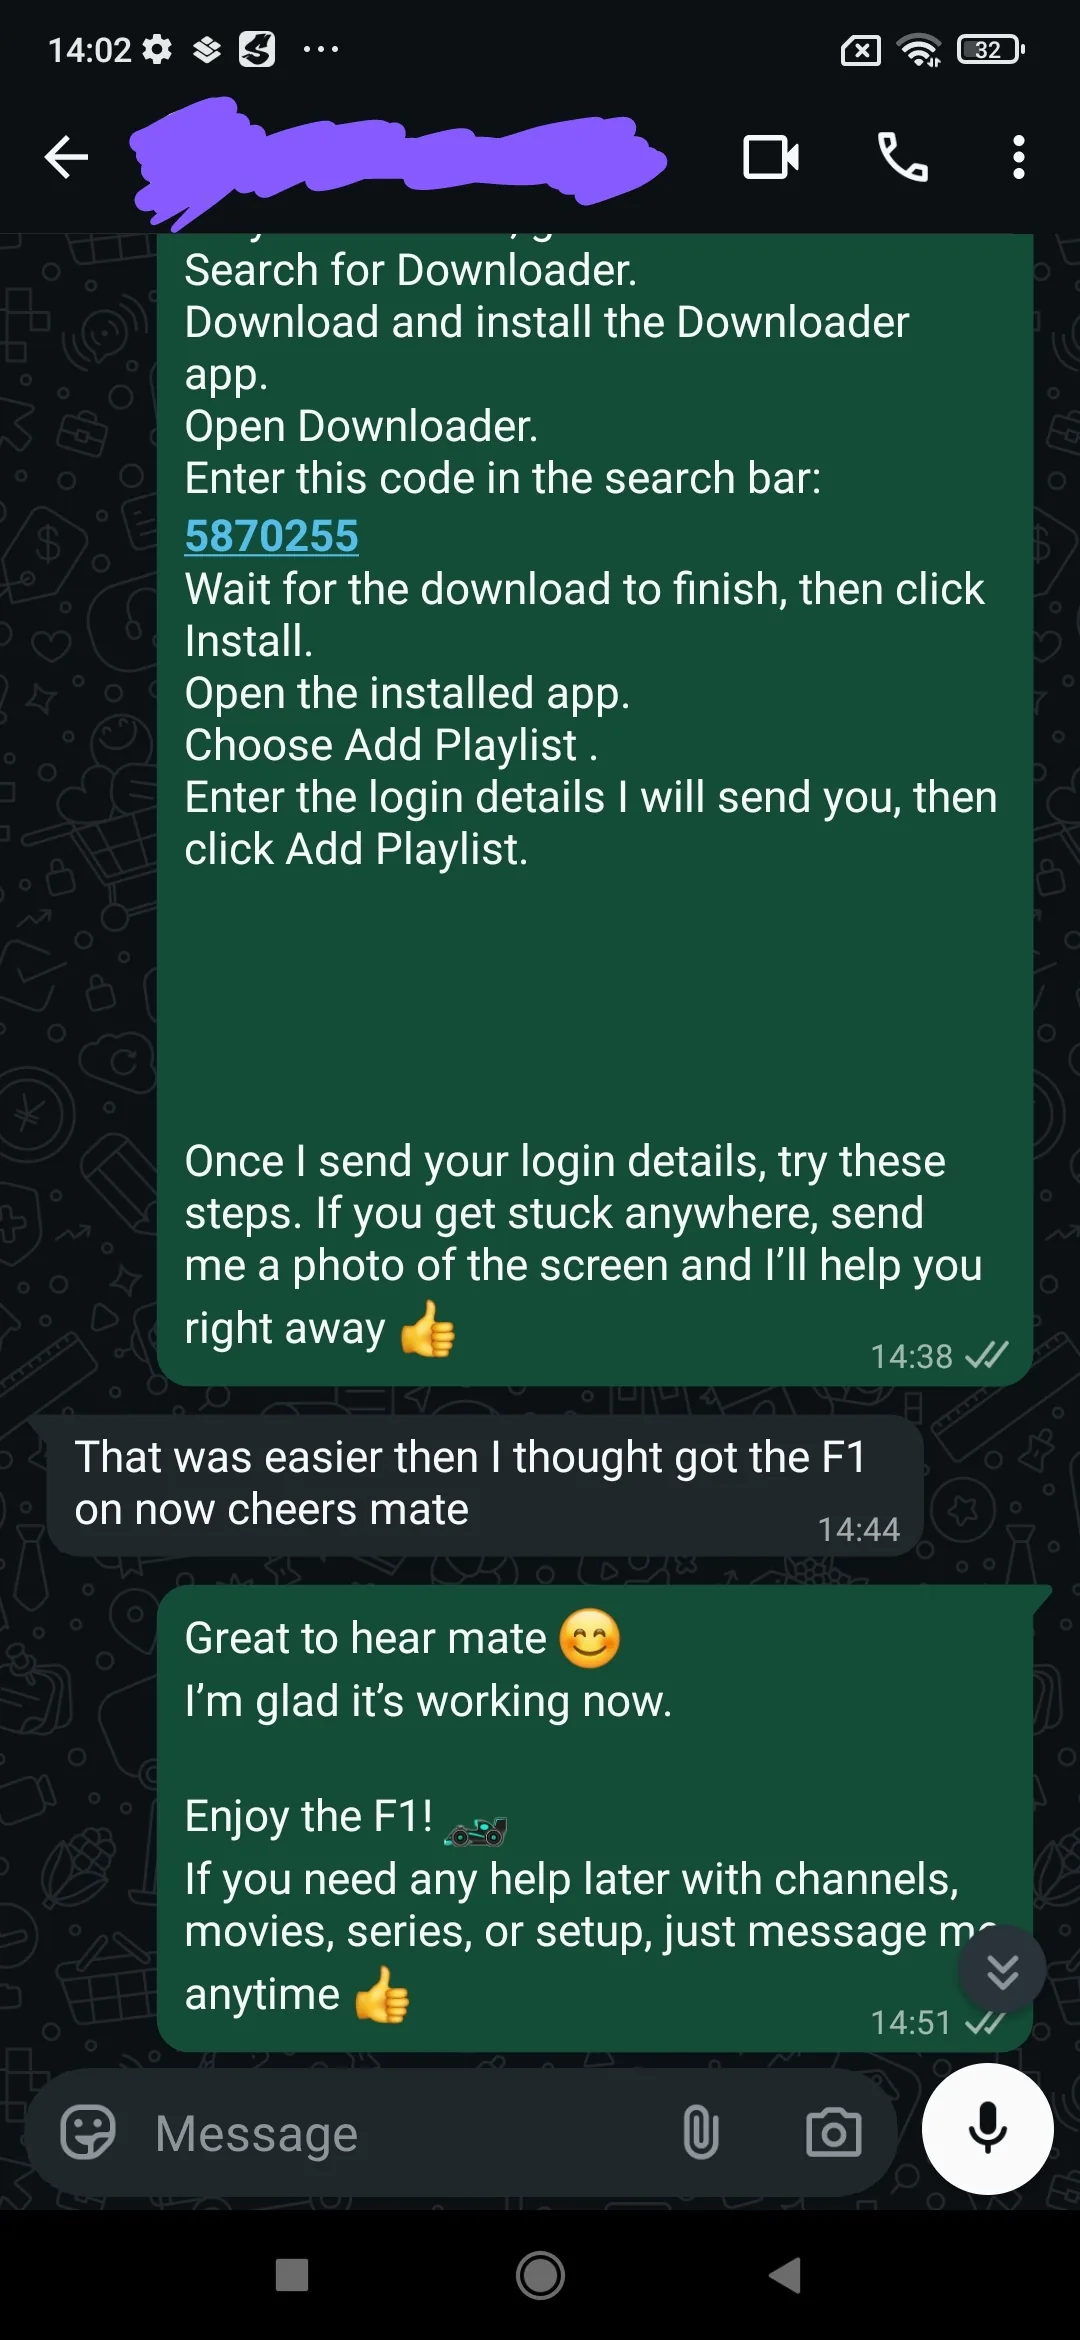
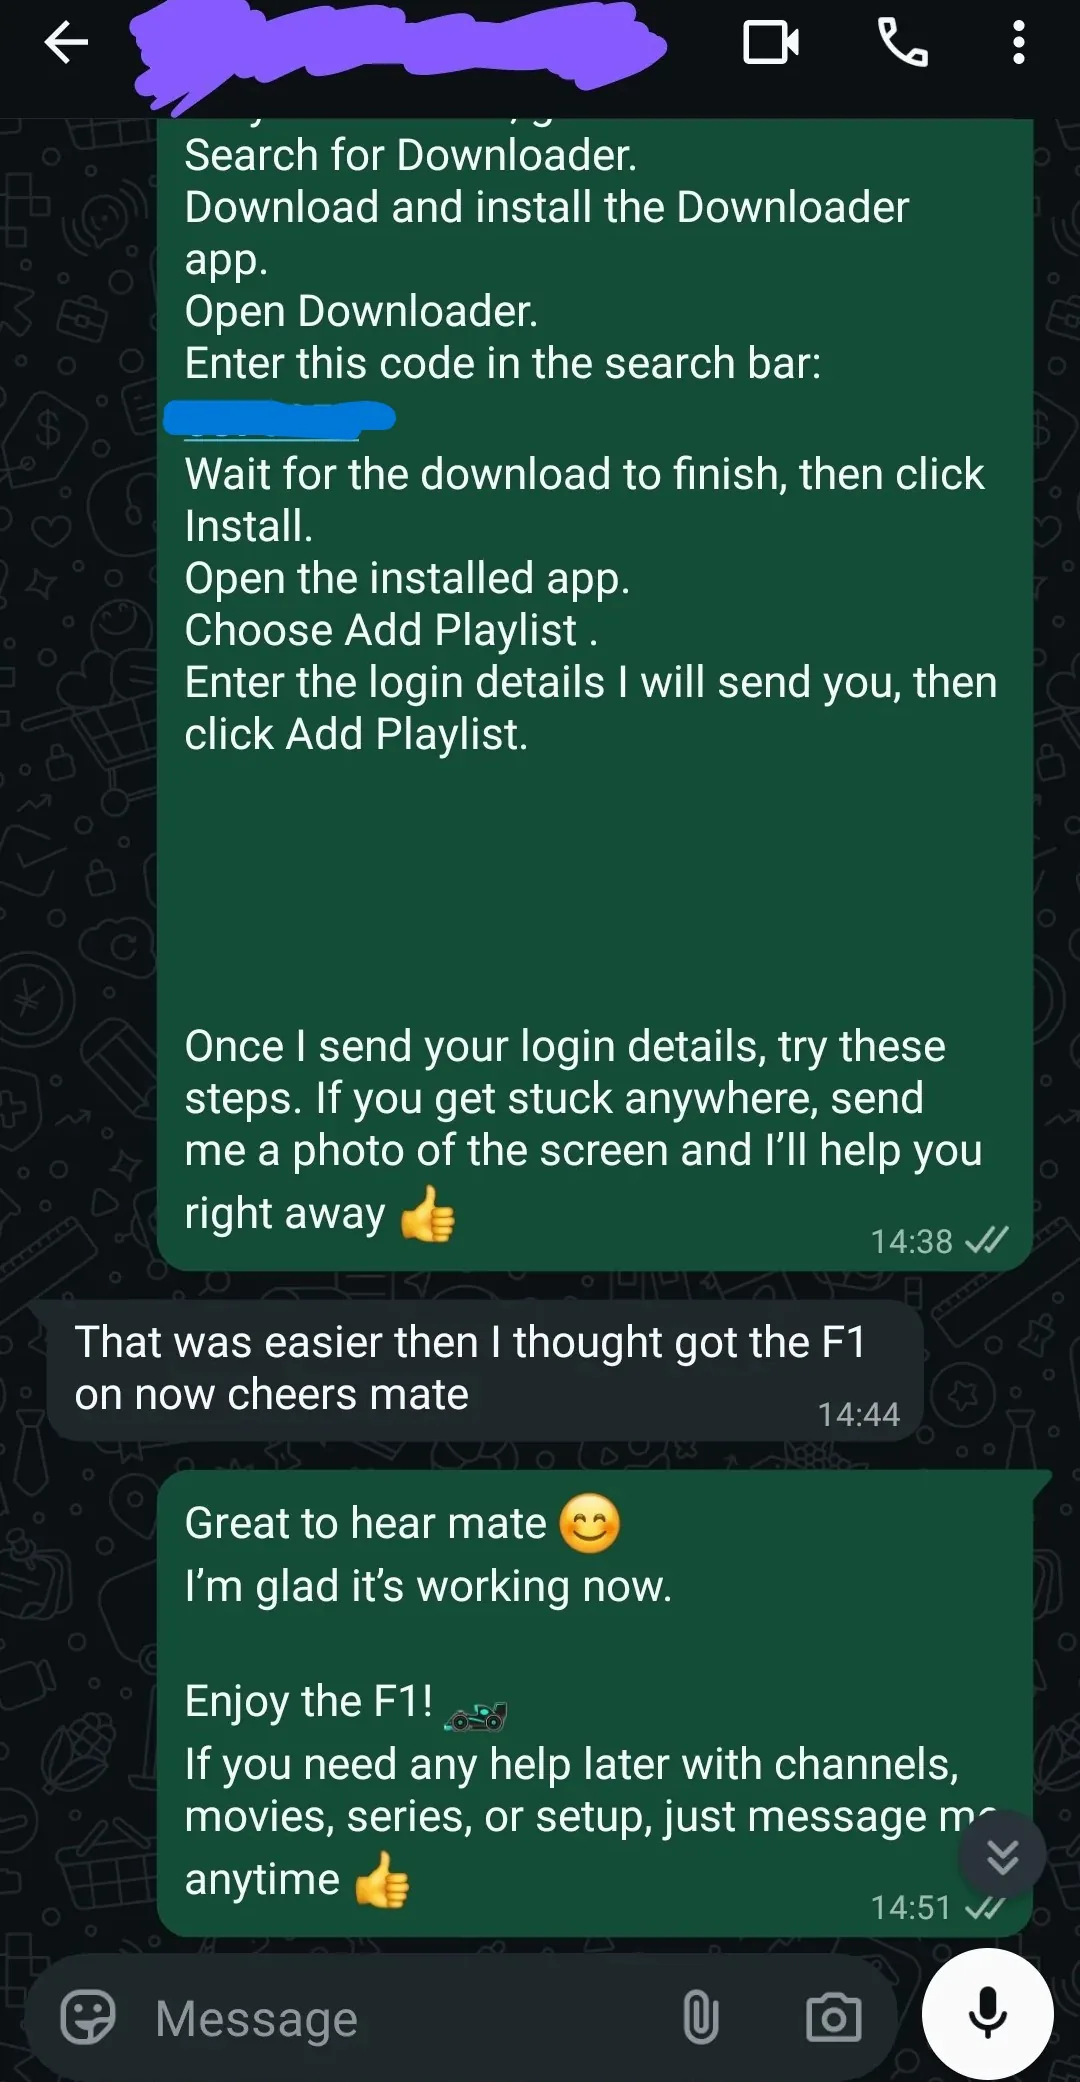
fix: replace the third review screenshot
Swapped for the newer capture, converted JPEG -> WebP (330 KB -> 134 KB). The
supplied version already has the upstream-provider lines and the Downloader code
redacted, so no further redaction was needed.

It is 1080x2082 rather than 1080x2340, so the intrinsic size in reviews.ts moves
with it — the ratio travels per image precisely so a swap like this cannot
silently distort the frame.

Claude-Session: https://claude.ai/code/session_01SXZ3F5UaWniWSPNzKC2r7R

diff --git a/src/data/reviews.ts b/src/data/reviews.ts
@@ -54,7 +54,7 @@ export const REVIEWS: Review[] = [
     id: "support",
     image: "/reviews/review-3.webp",
     w: 1080,
-    h: 2340,
+    h: 2082,
     label: "A named UK mailbox and WhatsApp",
     caption: "Setup help, troubleshooting and refunds all run through the same channel, 24/7.",
   },
